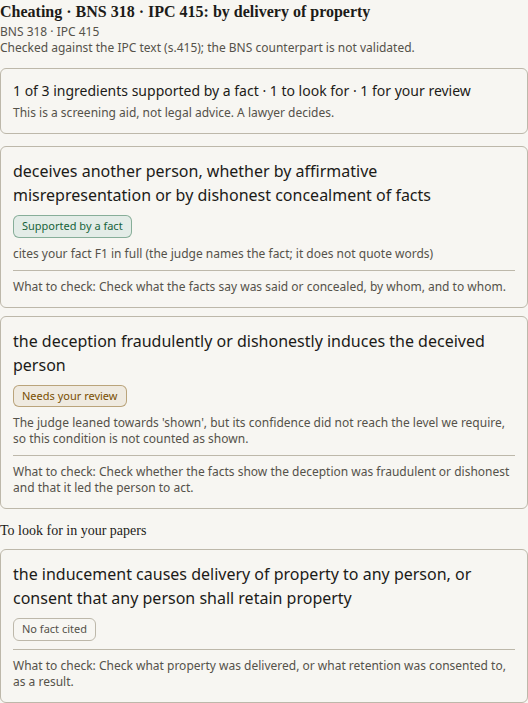
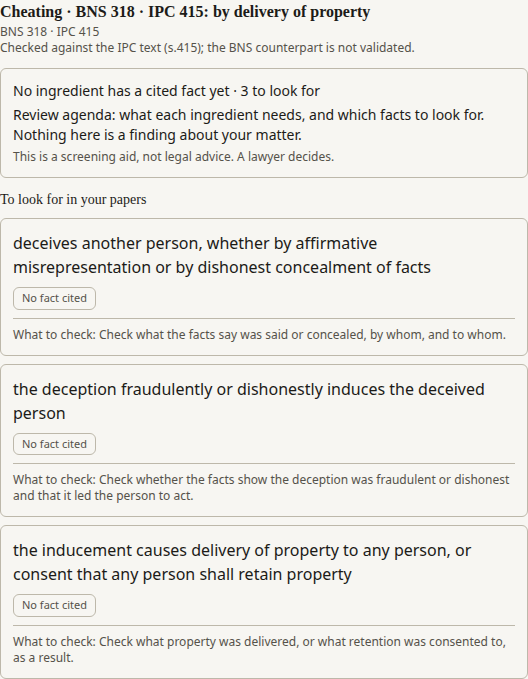
Guide frames 02 and 03 retaken from a live run of the Karnataka public-order example (dev engine 0.6.4); alt text names the court order and what the run shows

Changed region(s): [[0.0, 0.0, 1.0, 0.9897], [0.9697, 0.7732, 1.0, 0.8041], [0.9697, 0.0928, 1.0, 0.1237]]

diff --git a/frontend/src/lib/guide/copy.ts b/frontend/src/lib/guide/copy.ts
@@ -33,11 +33,11 @@ export const GUIDE_IMAGES: Record<"input" | "checklist" | "citedFact" | "needsRe
   },
   checklist: {
     file: "02-ingredient-checklist.png",
-    alt: "The result for the invented plot-sale matter: a summary line above the standing not-legal-advice line, then three ingredient rows, one marked Supported by a fact, one marked Needs your review and one marked No fact cited under the heading To look for in your papers, each with a What to check line.",
+    alt: "The result of a run on a public court order (High Court of Karnataka at Bengaluru, order of 25 March 2025, 2025:KHC:12773): the review agenda above the standing not-legal-advice line, then three ingredient rows under the heading To look for in your papers, each marked No fact cited with a What to check line.",
   },
   citedFact: {
     file: "03-cited-fact.png",
-    alt: "One ingredient row marked Supported by a fact, naming fact F1 (an invented plot-sale matter).",
+    alt: "One ingredient row from the same run on a public court order, marked No fact cited, with its What to check line.",
   },
   needsReview: {
     file: "04-needs-your-review.png",

diff --git a/frontend/src/lib/guide/guide.spec.ts b/frontend/src/lib/guide/guide.spec.ts
@@ -63,7 +63,7 @@ test("R1's conditions on the images: the citations shot carries the dev-stack ca
   const sentence = "Dev stack only: the citation check is not yet served in the hosted deployment.";
   assert.equal(GUIDE_IMAGES.citations.caption, sentence);
   assert.ok(GUIDE_IMAGES.citations.alt.endsWith(sentence));
-  assert.match(GUIDE_IMAGES.checklist.alt, /one marked Supported by a fact, one marked Needs your review and one marked No fact cited under the heading To look for in your papers/);
+  assert.match(GUIDE_IMAGES.checklist.alt, /run on a public court order .*2025:KHC:12773.*three ingredient rows under the heading To look for in your papers, each marked No fact cited/);
   assert.doesNotMatch(GUIDE_IMAGES.checklist.alt, /\b\d+ of \d+\b/);
 });
 

diff --git a/frontend/e2e/guide-shots.spec.ts b/frontend/e2e/guide-shots.spec.ts
@@ -102,6 +102,7 @@ test("02/03 the checklist and a row from a real example run (live engine)", asyn
   await page.setViewportSize({ width: 832, height: 900 });
   await page.goto(`/screening?example=${process.env.GUIDE_EXAMPLE}`);
   await expect(page.getByTestId("example-citation")).toBeVisible();
+  await expect(page.getByTestId("offence-list").locator("input:checked")).not.toHaveCount(0); // the example selects its offence once the registry has loaded
   await page.getByRole("button", { name: "Screen these facts" }).click();
   const checklist = page.getByTestId("checklist").first();
   await expect(checklist).toBeVisible({ timeout: 380_000 });
